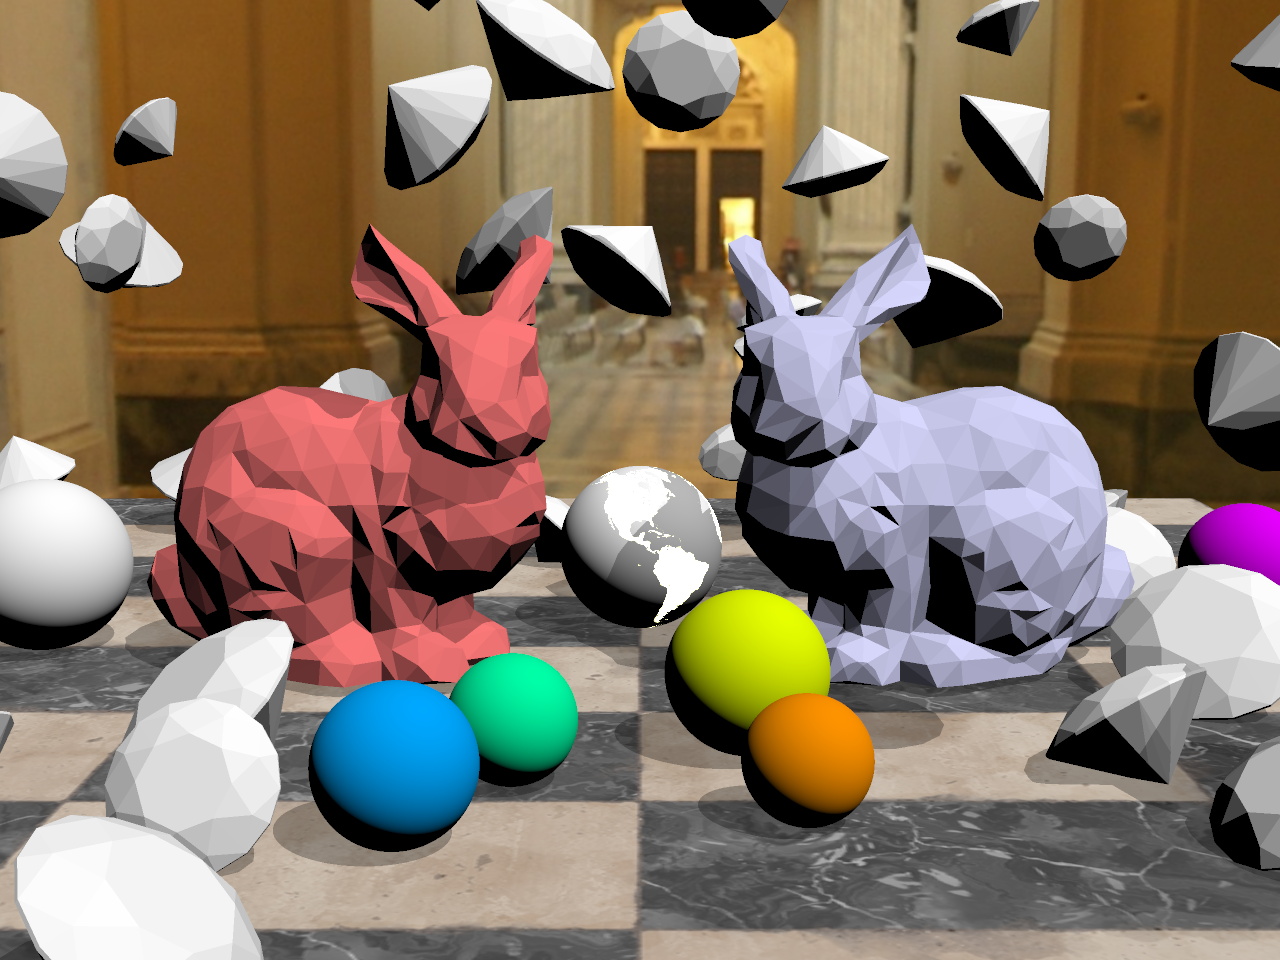
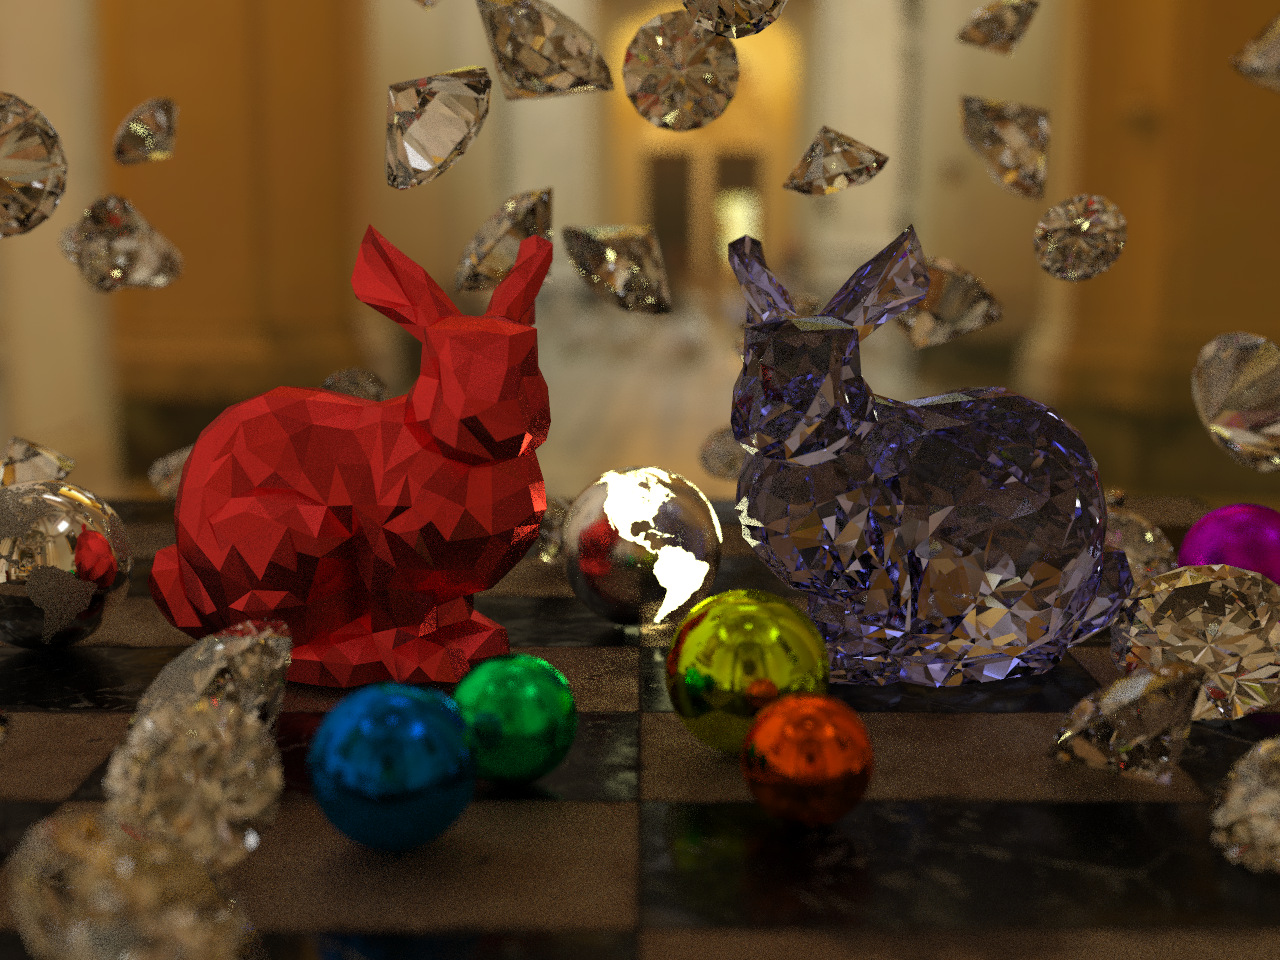
Mesure in same condtion: 169.031 sec.

diff --git a/src/main.rs b/src/main.rs
@@ -421,12 +421,12 @@ fn main() {
         //let (width, height, sampling) = (800, 600, 5);// SVGA 480,000 pixel
         //let (width, height, sampling) = (800, 600, 50);// SVGA 480,000 pixel
         //let (width, height, sampling) = (1280, 960, 67);// QVGA 1,228,800 pixel for rtcamp5
-        let (width, height, sampling) = (1280, 960, 10);
+        let (width, height, sampling) = (1280, 960, 9);
         //let (width, height, sampling) = (1920, 1080, 1000);// FHD 2,073,600 pixel
         //let (width, height, sampling) = (1280, 720, 1000);// HD 921,600 pixel
 
         let mut renderer = DebugRenderer { mode: DebugRenderMode::AlbedoAndShadow };
-        //let mut renderer = PathTracingRenderer::new(sampling);
+        let mut renderer = PathTracingRenderer::new(sampling);
 
         tee(&mut f, &format!("resolution: {}x{}.", width, height));
         tee(&mut f, &format!("sampling: {}x{} spp.", sampling, config::SUPERSAMPLING * config::SUPERSAMPLING));

diff --git a/src/renderer.rs b/src/renderer.rs
@@ -67,7 +67,7 @@ pub trait Renderer: Sync {
     fn report_progress(&mut self, accumulation_buf: &mut Vec<Vector3>, sampling: u32, imgbuf: &mut ImageBuffer<Rgb<u8>, Vec<u8>>);
 
     fn update_imgbuf(accumulation_buf: &mut Vec<Vector3>, sampling: u32, imgbuf: &mut ImageBuffer<Rgb<u8>, Vec<u8>>) {
-        let num_of_pixel= imgbuf.width() * imgbuf.height();
+        let num_of_pixel = imgbuf.width() * imgbuf.height();
         let scale = (((sampling + 1) * config::SUPERSAMPLING * config::SUPERSAMPLING) as f64).recip();
         for p in 0..num_of_pixel {
             let x = p % imgbuf.width();
